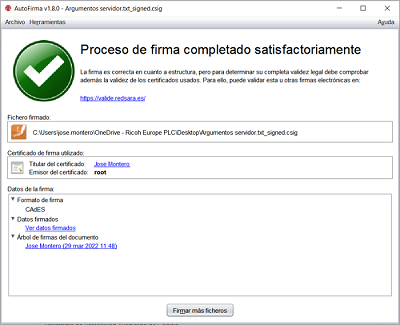
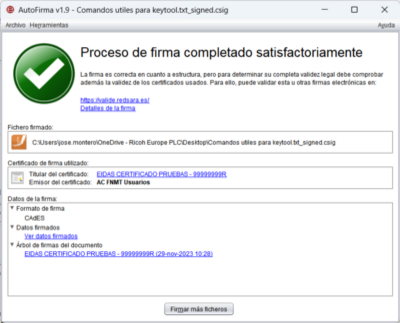
Actualización de ayuda integrada y correcciones menores.

Changed region(s): [[0.0, 0.0, 1.0, 1.0]]

diff --git a/afirma-simple/src/main/resources/help/Spanish.lproj/pgs/PantallaDetalle.html b/afirma-simple/src/main/resources/help/Spanish.lproj/pgs/PantallaDetalle.html
@@ -17,6 +17,12 @@
    <img src="../gfx/pantalladetalle2_mini.png" alt="Pantalla con el listado de firmas realizadas cuando se firman m&uacute;ltiples documentos">
   </p>
   <p>
+   Si se desea obtener m&aacute;s informaci&oacute;n acerca de la firma, se puede pulsar en el enlace <u>Detalles de la firma</u> y se mostrar&aacute; un di&aacute;logo con informaci&oacute;n acerca de la misma:
+  </p>
+  <p align="center">
+   <img src="../gfx/pantalladetallesfirma.png" alt="Pantalla con informaci&oacute;n extendida sobre la firma">
+  </p>
+  <p>
    Esta pantalla se divide en tres secciones:
   </p>
   <p>

diff --git a/afirma-crypto-validation/src/main/java/es/gob/afirma/signvalidation/SignatureFormatDetectorPadesCades.java b/afirma-crypto-validation/src/main/java/es/gob/afirma/signvalidation/SignatureFormatDetectorPadesCades.java
@@ -20,7 +20,7 @@ import com.aowagie.text.pdf.PdfDictionary;
 import com.aowagie.text.pdf.PdfName;
 import com.aowagie.text.pdf.PdfReader;
 
-public class SignatureFormatDetectorPadesCades {
+public class SignatureFormatDetectorPadesCades implements ISignatureFormatDetector {
 
 	/**
 	 * Constant attribute that represents the OID of the
@@ -422,7 +422,7 @@ public class SignatureFormatDetectorPadesCades {
 	 */
 	public static String resolvePDFFormat(final byte[] pdfDocument) {
 		// Por defecto establecemos el formato como no reconocido
-		String format = ISignatureFormatDetector.FORMAT_UNRECOGNIZED;
+		String format = FORMAT_UNRECOGNIZED;
 
 		try {
 			// Leemos el documento PDF
@@ -433,30 +433,30 @@ public class SignatureFormatDetectorPadesCades {
 			final PDFSignatureDictionary signatureDictionary = obtainLatestSignatureFromPDF(reader);
 
 			if (isPAdESBLevel(signatureDictionary)) {
-				format = ISignatureFormatDetector.FORMAT_PADES_B_LEVEL;
+				format = FORMAT_PADES_B_LEVEL;
 				if (isPAdESLTALevel(signatureDictionary, reader)) {
-					format = ISignatureFormatDetector.FORMAT_PADES_LTA_LEVEL;
+					format = FORMAT_PADES_LTA_LEVEL;
 				} else if (isPAdESLTLevel(signatureDictionary, reader)) {
-					format = ISignatureFormatDetector.FORMAT_PADES_LT_LEVEL;
+					format = FORMAT_PADES_LT_LEVEL;
 				} else if (isPAdESTLevel(signatureDictionary, reader)) {
-					format = ISignatureFormatDetector.FORMAT_PADES_T_LEVEL;
+					format = FORMAT_PADES_T_LEVEL;
 				}
 			}
 			else if (isPAdESBBLevel(signatureDictionary)) {
-				format = ISignatureFormatDetector.FORMAT_PADES_B_B_LEVEL;
+				format = FORMAT_PADES_B_B_LEVEL;
 				if (isPAdESLTALevel(signatureDictionary, reader)) {
-					format = ISignatureFormatDetector.FORMAT_PADES_LTA_LEVEL;
+					format = FORMAT_PADES_LTA_LEVEL;
 				} else if (isPAdESLTLevel(signatureDictionary, reader)) {
-					format = ISignatureFormatDetector.FORMAT_PADES_LT_LEVEL;
+					format = FORMAT_PADES_LT_LEVEL;
 				} else if (isPAdESTLevel(signatureDictionary, reader)) {
-					format = ISignatureFormatDetector.FORMAT_PADES_T_LEVEL;
+					format = FORMAT_PADES_T_LEVEL;
 				}
 			}
 			else{
 				return getFormatOfPAdESSignature(signatureDictionary, reader);
 			}
 		} catch (final Exception e) {
-			format = ISignatureFormatDetector.FORMAT_UNRECOGNIZED;
+			format = FORMAT_UNRECOGNIZED;
 		}
 		return format;
 	}
@@ -481,20 +481,20 @@ public class SignatureFormatDetectorPadesCades {
 	private static String getFormatOfPAdESSignature(final PDFSignatureDictionary signatureDictionary,
 			final PdfReader reader) {
 		// Por defecto establecemos el formato como no reconocido
-		String format = ISignatureFormatDetector.FORMAT_UNRECOGNIZED;
+		String format = FORMAT_UNRECOGNIZED;
 
 		if (isPAdESLTV(reader)) {
-			format = ISignatureFormatDetector.FORMAT_PADES_LTV;
+			format = FORMAT_PADES_LTV;
 		} else {
 			// Comprobamos el formato especifico de la firma
 			if (isPAdESEPES(signatureDictionary)) {
-				format = ISignatureFormatDetector.FORMAT_PADES_EPES;
+				format = FORMAT_PADES_EPES;
 			} else if (isPAdESBES(signatureDictionary)) {
-				format = ISignatureFormatDetector.FORMAT_PADES_BES;
+				format = FORMAT_PADES_BES;
 			} else if (isPAdESBasic(signatureDictionary)) {
-				format = ISignatureFormatDetector.FORMAT_PADES_BASIC;
+				format = FORMAT_PADES_BASIC;
 			} else if (isPDF(signatureDictionary)) {
-				format = ISignatureFormatDetector.FORMAT_PDF;
+				format = FORMAT_PDF;
 			}
 		}
 
@@ -818,7 +818,7 @@ public class SignatureFormatDetectorPadesCades {
 	 */
 	public static String resolveASN1Format(final CMSSignedData signedData, final SignerInformation signature) {
 		// Inicialmente definidos que el formato no está reconocido
-		String format = ISignatureFormatDetector.FORMAT_UNRECOGNIZED;
+		String format = FORMAT_UNRECOGNIZED;
 		try {
 			// Comprobamos si la firma es CMS
 			if (isCMS(signature)) {
@@ -841,18 +841,18 @@ public class SignatureFormatDetectorPadesCades {
 				// el atributo firmado signing-time
 				if (isCAdESBLevel(signature)) {
 					// Establecemos el formato a CAdES B-Level
-					format = ISignatureFormatDetector.FORMAT_CADES_B_LEVEL;
+					format = FORMAT_CADES_B_LEVEL;
 					// Comprobamos si la firma posee signature-time-stamp en
 					// cuyo caso será CAdES T-Level
 					if (isCAdEST(signature)) {
 						// Establecemos el formato a CAdES T-Level
-						format = ISignatureFormatDetector.FORMAT_CADES_T_LEVEL;
+						format = FORMAT_CADES_T_LEVEL;
 						// Comprobamos si la firma es LT-Level
 						if (isCAdESLTLevel(signature, signedData)) {
-							format = ISignatureFormatDetector.FORMAT_CADES_LT_LEVEL;
+							format = FORMAT_CADES_LT_LEVEL;
 							// Comprobamos si la firma es LTA-Level
 							if (isCAdESLTALevel(signature)) {
-								format = ISignatureFormatDetector.FORMAT_CADES_LTA_LEVEL;
+								format = FORMAT_CADES_LTA_LEVEL;
 							}
 						} else {
 							format = resolveCAdESNoBaselineFormat(format, signature);
@@ -867,16 +867,16 @@ public class SignatureFormatDetectorPadesCades {
 				}
 			}
 			else if (isCAdESBBLevel(signature)) {
-				format = ISignatureFormatDetector.FORMAT_CADES_B_B_LEVEL;
+				format = FORMAT_CADES_B_B_LEVEL;
 				if (isCAdEST(signature)) {
 					// Establecemos el formato a CAdES T-Level
-					format = ISignatureFormatDetector.FORMAT_CADES_T_LEVEL;
+					format = FORMAT_CADES_T_LEVEL;
 					// Comprobamos si la firma es LT-Level
 					if (isCAdESLTLevel(signature, signedData)) {
-						format = ISignatureFormatDetector.FORMAT_CADES_LT_LEVEL;
+						format = FORMAT_CADES_LT_LEVEL;
 						// Comprobamos si la firma es LTA-Level
 						if (isCAdESLTALevel(signature)) {
-							format = ISignatureFormatDetector.FORMAT_CADES_LTA_LEVEL;
+							format = FORMAT_CADES_LTA_LEVEL;
 						}
 					} else {
 						format = resolveCAdESNoBaselineFormat(format, signature);
@@ -890,7 +890,7 @@ public class SignatureFormatDetectorPadesCades {
 				}
 			}
 		} catch (final Exception e) {
-			format = ISignatureFormatDetector.FORMAT_UNRECOGNIZED;
+			format = FORMAT_UNRECOGNIZED;
 		}
 		return format;
 	}
@@ -960,23 +960,23 @@ public class SignatureFormatDetectorPadesCades {
 	private static String resolveFormatOfCAdESEPESSignature(final CMSSignedData signedData,
 			final SignerInformation signature) {
 		// Establecemos el formato a CAdES-EPES
-		String format = ISignatureFormatDetector.FORMAT_CADES_EPES;
+		String format = FORMAT_CADES_EPES;
 		// Comprobamos si la firma es CAdES B-Level, esto es, si tiene
 		// el atributo firmado signing-time
 		if (isCAdESBLevel(signature)) {
 			// Establecemos el formato a CAdES B-Level
-			format = ISignatureFormatDetector.FORMAT_CADES_B_LEVEL;
+			format = FORMAT_CADES_B_LEVEL;
 			// Comprobamos si la firma posee signature-time-stamp en
 			// cuyo caso será CAdES T-Level
 			if (isCAdEST(signature)) {
 				// Establecemos el formato a CAdES T-Level
-				format = ISignatureFormatDetector.FORMAT_CADES_T_LEVEL;
+				format = FORMAT_CADES_T_LEVEL;
 				// Comprobamos si la firma es LT-Level
 				if (isCAdESLTLevel(signature, signedData)) {
-					format = ISignatureFormatDetector.FORMAT_CADES_LT_LEVEL;
+					format = FORMAT_CADES_LT_LEVEL;
 					// Comprobamos si la firma es LTA-Level
 					if (isCAdESLTALevel(signature)) {
-						format = ISignatureFormatDetector.FORMAT_CADES_LTA_LEVEL;
+						format = FORMAT_CADES_LTA_LEVEL;
 					}
 				}
 			}
@@ -1023,8 +1023,8 @@ public class SignatureFormatDetectorPadesCades {
 		String format = temporalFormat;
 
 		// Si la firma no es CAdES-T comprobamos si pudiera serlo
-		if (!format.equals(ISignatureFormatDetector.FORMAT_CADES_T_LEVEL) && isCAdEST(signature)) {
-			format = ISignatureFormatDetector.FORMAT_CADES_T;
+		if (!format.equals(FORMAT_CADES_T_LEVEL) && isCAdEST(signature)) {
+			format = FORMAT_CADES_T;
 		}
 
 		return format;

diff --git a/afirma-simple/src/main/java/es/gob/afirma/standalone/ui/SignResultPanel.java b/afirma-simple/src/main/java/es/gob/afirma/standalone/ui/SignResultPanel.java
@@ -120,6 +120,16 @@ final class SignResultPanel extends JPanel {
                     this.accessibleDescription += SimpleAfirmaMessages.getString("SignResultPanel.8") //$NON-NLS-1$
    						 						+ okMessage
    						 						+ SimpleAfirmaMessages.getString("SignResultPanel.33"); //$NON-NLS-1$
+
+                	// Este gestor se encargara de controlar los eventos de foco y raton
+                    final LabelLinkManager okDetailsSignLinkManager = new LabelLinkManager(this.validationLinkLabel);
+                    okDetailsSignLinkManager.setLabelLinkListener(new ValidationErrorsLabelLinkImpl(
+                    		signData, validity
+                    ));
+
+                    this.validationLinkLabel.setText(SimpleAfirmaMessages.getString("SignResultPanel.38")); //$NON-NLS-1$
+                    this.validationLinkLabel.getAccessibleContext().setAccessibleName(SimpleAfirmaMessages.getString("SignDataPanel.46") //$NON-NLS-1$
+                    		+ SimpleAfirmaMessages.getString("SignResultPanel.38")); //$NON-NLS-1$
             	}
             	else {
             		okMessage = SimpleAfirmaMessages.getString("SignResultPanel.28"); //$NON-NLS-1$
@@ -145,16 +155,6 @@ final class SignResultPanel extends JPanel {
 
                 this.linkLabel.getAccessibleContext().setAccessibleName(SimpleAfirmaMessages.getString("SignDataPanel.46") //$NON-NLS-1$
                 		+ SimpleAfirmaMessages.getString("SignResultPanel.33")); //$NON-NLS-1$
-
-            	// Este gestor se encargara de controlar los eventos de foco y raton
-                final LabelLinkManager okDetailsSignLinkManager = new LabelLinkManager(this.validationLinkLabel);
-                okDetailsSignLinkManager.setLabelLinkListener(new ValidationErrorsLabelLinkImpl(
-                		signData, validity
-                ));
-
-                this.validationLinkLabel.setText(SimpleAfirmaMessages.getString("SignResultPanel.38")); //$NON-NLS-1$
-                this.validationLinkLabel.getAccessibleContext().setAccessibleName(SimpleAfirmaMessages.getString("SignDataPanel.46") //$NON-NLS-1$
-                		+ SimpleAfirmaMessages.getString("SignResultPanel.38")); //$NON-NLS-1$
                 break;
             case KO:
                 if (singleSign) {
@@ -218,16 +218,6 @@ final class SignResultPanel extends JPanel {
                     this.accessibleDescription += SimpleAfirmaMessages.getString("SignResultPanel.30") //$NON-NLS-1$
    						 						+ errorMessage
    						 						+ SimpleAfirmaMessages.getString("SignResultPanel.33"); //$NON-NLS-1$
-
-                	// Este gestor se encargara de controlar los eventos de foco y raton
-                    final LabelLinkManager koDetailsSignLinkManager = new LabelLinkManager(this.validationLinkLabel);
-                    koDetailsSignLinkManager.setLabelLinkListener(new ValidationErrorsLabelLinkImpl(
-                    		signData, validity
-                    ));
-
-                    this.validationLinkLabel.setText(SimpleAfirmaMessages.getString("SignResultPanel.38")); //$NON-NLS-1$
-                    this.validationLinkLabel.getAccessibleContext().setAccessibleName(SimpleAfirmaMessages.getString("SignDataPanel.46") //$NON-NLS-1$
-                    		+ SimpleAfirmaMessages.getString("SignResultPanel.38")); //$NON-NLS-1$
                 }
                 break;
             default:
